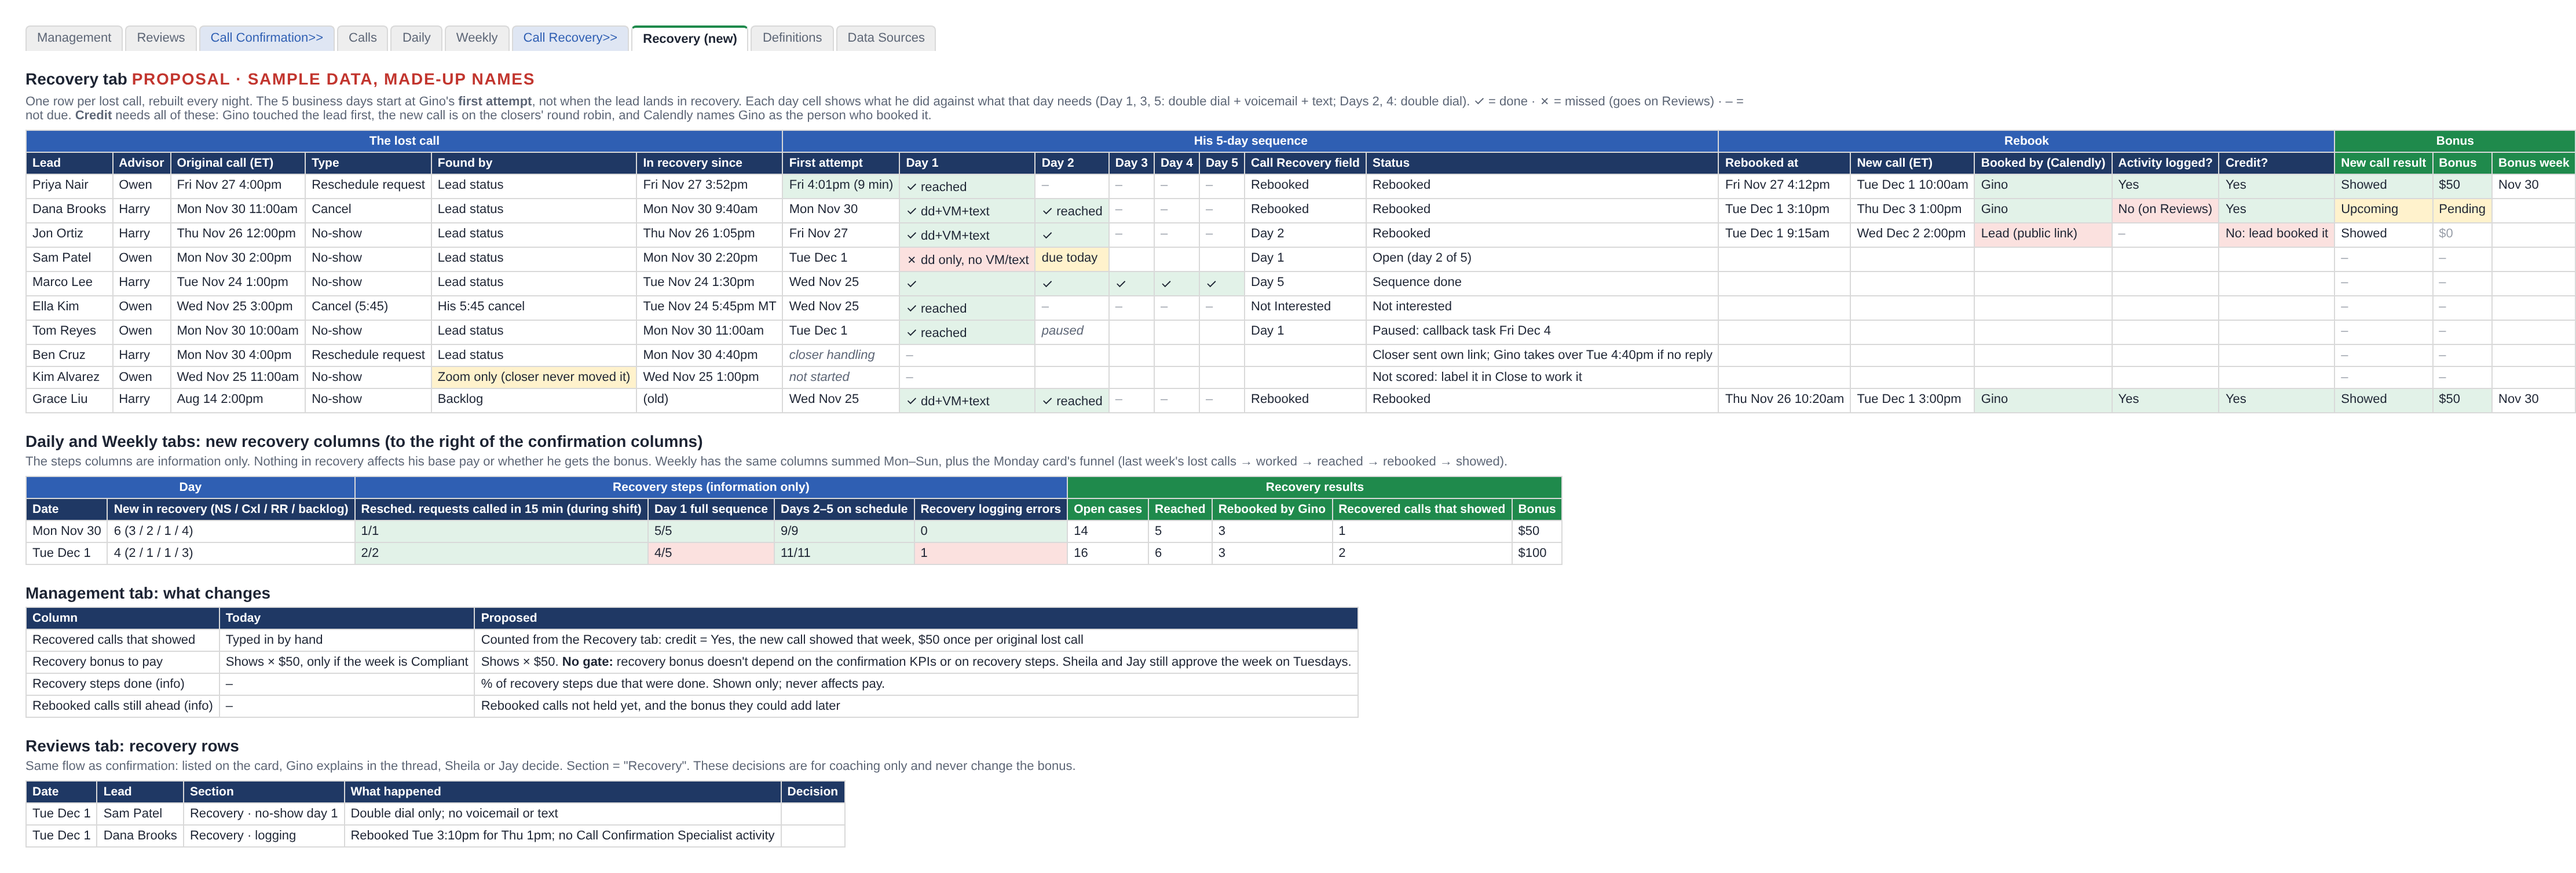
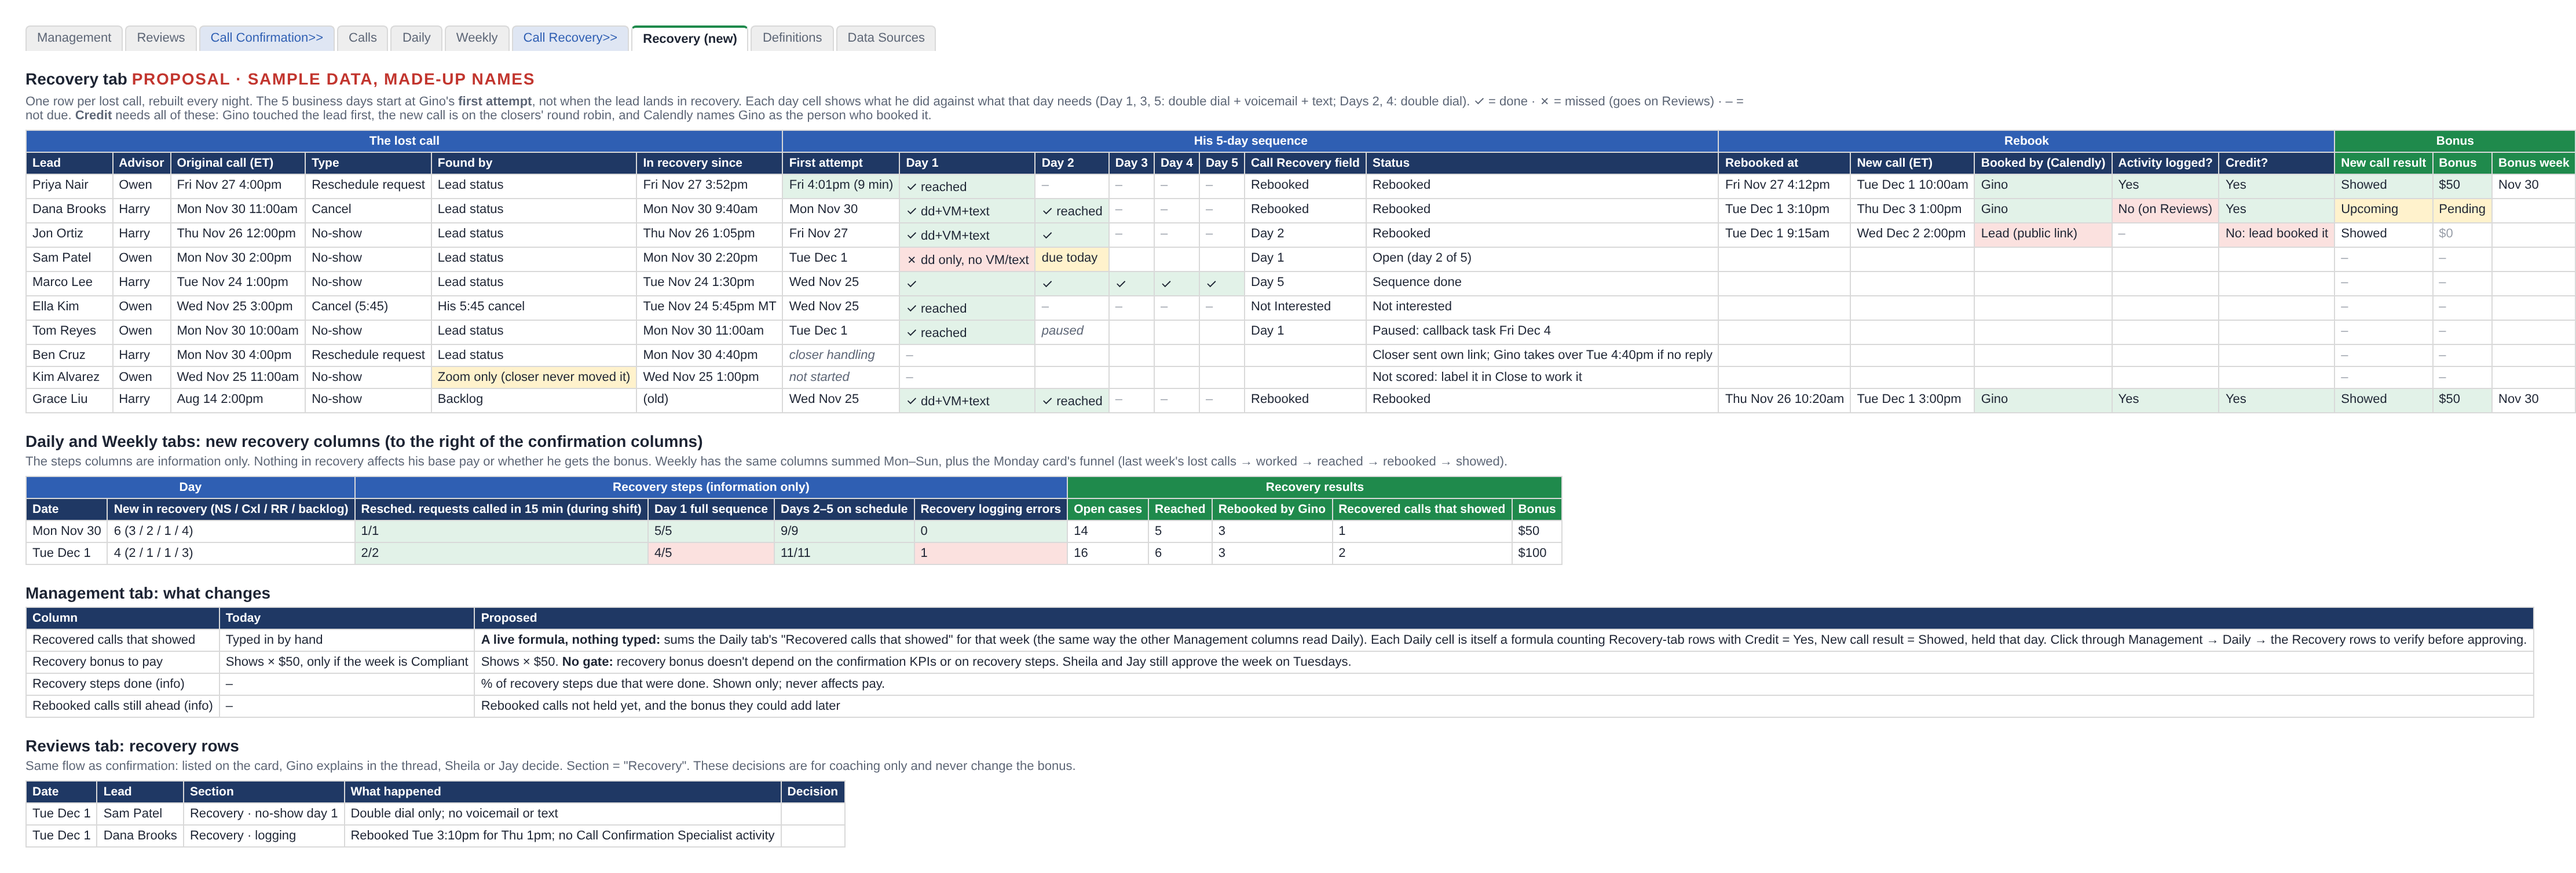
Recovery proposal: Management recovered shows as a live formula through Daily to the Recovery tab
Claude-Session: https://claude.ai/code/session_01D9LMPRREqJ9c3GbMSw9C3k

Changed region(s): [[0.1875, 0.6857, 1.0, 0.748]]

diff --git a/proposals/call-recovery/mockup/tracker-recovery.html b/proposals/call-recovery/mockup/tracker-recovery.html
@@ -82,7 +82,7 @@
 <h2>Management tab: what changes</h2>
 <table>
 <tr><th>Column</th><th>Today</th><th>Proposed</th></tr>
-<tr><td>Recovered calls that showed</td><td>Typed in by hand</td><td>Counted from the Recovery tab: credit = Yes, the new call showed that week, $50 once per original lost call</td></tr>
+<tr><td>Recovered calls that showed</td><td>Typed in by hand</td><td><b>A live formula, nothing typed:</b> sums the Daily tab's "Recovered calls that showed" for that week (the same way the other Management columns read Daily). Each Daily cell is itself a formula counting Recovery-tab rows with Credit = Yes, New call result = Showed, held that day. Click through Management → Daily → the Recovery rows to verify before approving.</td></tr>
 <tr><td>Recovery bonus to pay</td><td>Shows × $50, only if the week is Compliant</td><td>Shows × $50. <b>No gate:</b> recovery bonus doesn't depend on the confirmation KPIs or on recovery steps. Sheila and Jay still approve the week on Tuesdays.</td></tr>
 <tr><td>Recovery steps done (info)</td><td>–</td><td>% of recovery steps due that were done. Shown only; never affects pay.</td></tr>
 <tr><td>Rebooked calls still ahead (info)</td><td>–</td><td>Rebooked calls not held yet, and the bonus they could add later</td></tr>

diff --git a/proposals/call-recovery/README.md b/proposals/call-recovery/README.md
@@ -110,7 +110,7 @@ Open item B below covers how the tracker proves #3.
 | **Recovery** (new, built each night) | One row per case:<br>- the lost call (lead, advisor, original time, type, how it was found);<br>- first attempt and Days 1–5 (due vs done, what he did, the field value he logged);<br>- status and end reason;<br>- rebook (when, the new call, calendar, scheduler = Gino?, logged?);<br>- the new call's result, credit, bonus and bonus week. |
 | **Daily / Weekly** | Recovery columns to the right of the confirmation columns: the steps (information only) and the results. |
 | **Reviews** | Recovery misses and logging errors, with a "Recovery" label, decided the same way from #cc-gino. They are never part of the bonus check. |
-| **Management** | "Recovered calls that showed" is counted from the Recovery tab instead of typed in. Recovery stays out of the KPIs and the "Compliant" check. The bonus = recovered shows × $50, approved weekly by Sheila and Jay as now. A "rebooked calls still ahead" column is added for information. |
+| **Management** | "Recovered calls that showed" becomes a **live formula** (Sheila, Nov 24): it sums the Daily tab's recovered-shows column for the week, and each Daily cell counts the Recovery-tab rows with Credit = Yes and New call result = Showed on that day. Nothing is typed in; Sheila and Jay verify by clicking through to the rows, then approve. Recovery stays out of the KPIs and the "Compliant" check. The bonus = recovered shows × $50, approved weekly by Sheila and Jay as now. A "rebooked calls still ahead" column is added for information. |
 | **Definitions** | Adds the rules above. |
 | Supabase | Two new tables, `call_confirm_recovery_cases` and `call_confirm_recovery_touches`. Creating them is DDL, so it needs Sheila's approval. |
 
